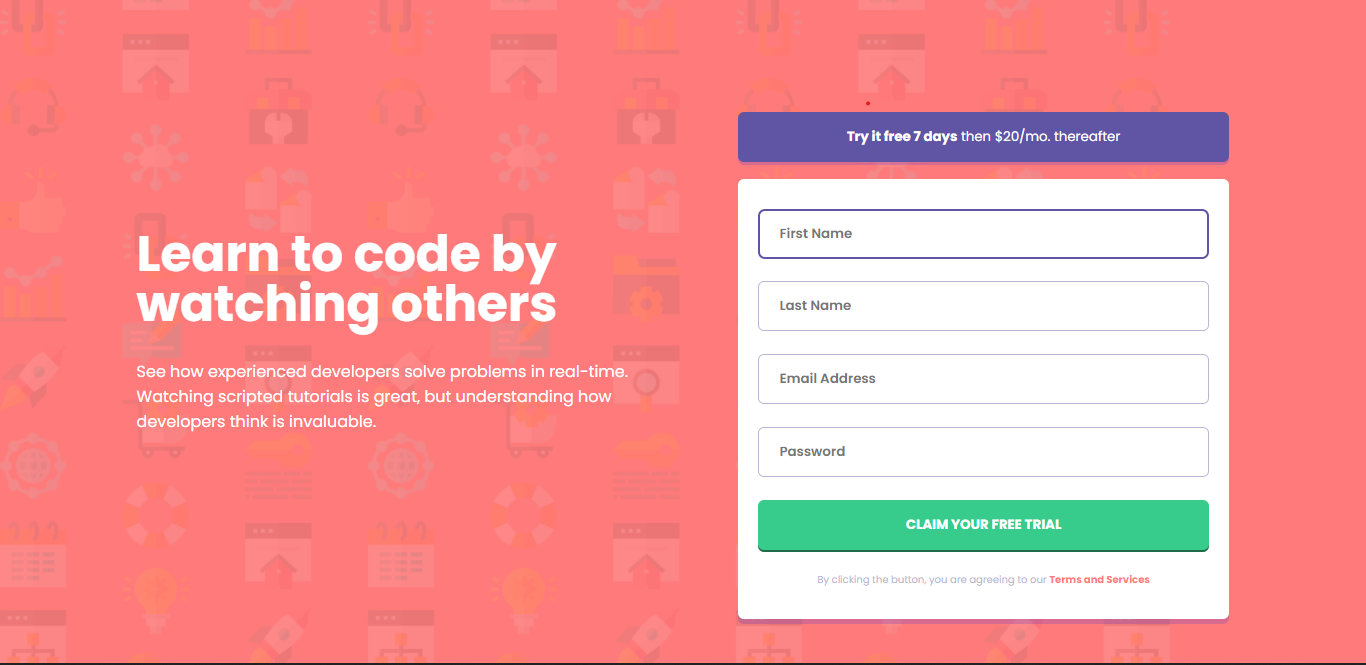
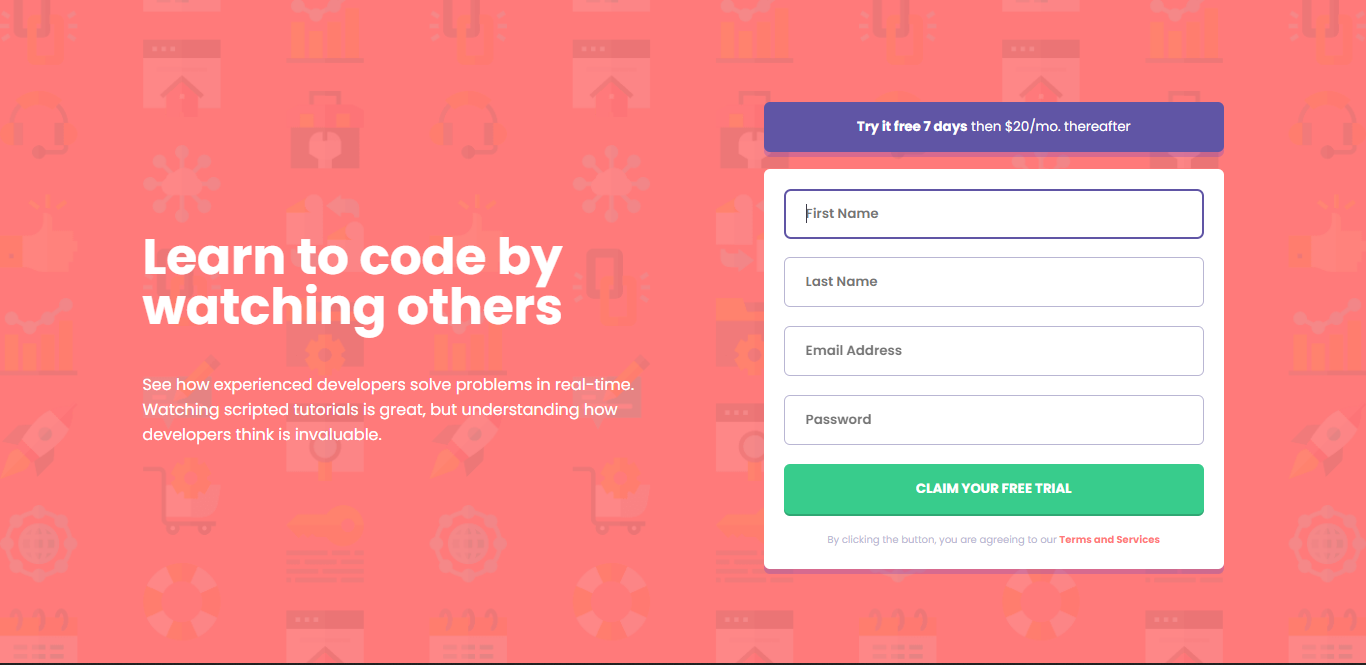
Full version
Update screenshot
Add desktop version
Update README

diff --git a/css/style.css b/css/style.css
@@ -11,8 +11,7 @@
 
 body {
     background: url('../images/bg-intro-desktop.png') no-repeat;
-    background-size: auto;
-    /* background-size: contain; */
+    background-size: cover;
     background-color: hsl(0, 100%, 74%);
     font-size: 1.3rem;
     color: white;
@@ -191,6 +190,45 @@ input:focus {
     color: #2ecc71;
 }
 
-/* small {
-    font-size: .6rem;
-} */
+/* desktop version*/
+@media (min-width: 760px) {
+    body {
+        font-size: 1.6rem;
+    }
+
+    main {
+        padding: 0 4rem;;
+        flex-direction: row;
+        justify-content: space-between;
+    }
+
+    .container {
+        height: 20rem;
+        margin: 0;
+    }
+
+    h1 {
+        width: 45rem;
+        margin: 0;
+
+        text-align: initial;
+        font-size: 5rem;
+    }
+
+    .container p {
+        width: 55rem;
+
+        padding-top: 4rem;
+        text-align: initial;
+    }
+
+    section {
+        width: 80rem;
+    }
+
+    /* buttons */
+
+    #price_btn {
+        height: 5rem;
+    }
+}

diff --git a/README.md b/README.md
@@ -16,8 +16,6 @@ This is a solution to the [Intro component with sign up form challenge on Fronte
 - [Author](#author)
 - [Acknowledgments](#acknowledgments)
 
-**Note: Delete this note and update the table of contents based on what sections you keep.**
-
 ## Overview
 
 ### The challenge
@@ -46,13 +44,10 @@ Users should be able to:
 - Semantic HTML5 markup
 - CSS custom properties
 - Flexbox
-- CSS Grid
 - Mobile-first workflow
 - JavaScript
 
 ### What I learned
-
-Use this section to recap over some of your major learnings while working through this project. Writing these out and providing code samples of areas you want to highlight is a great way to reinforce your own knowledge.
 
 To see how you can add code snippets, see below:
 
